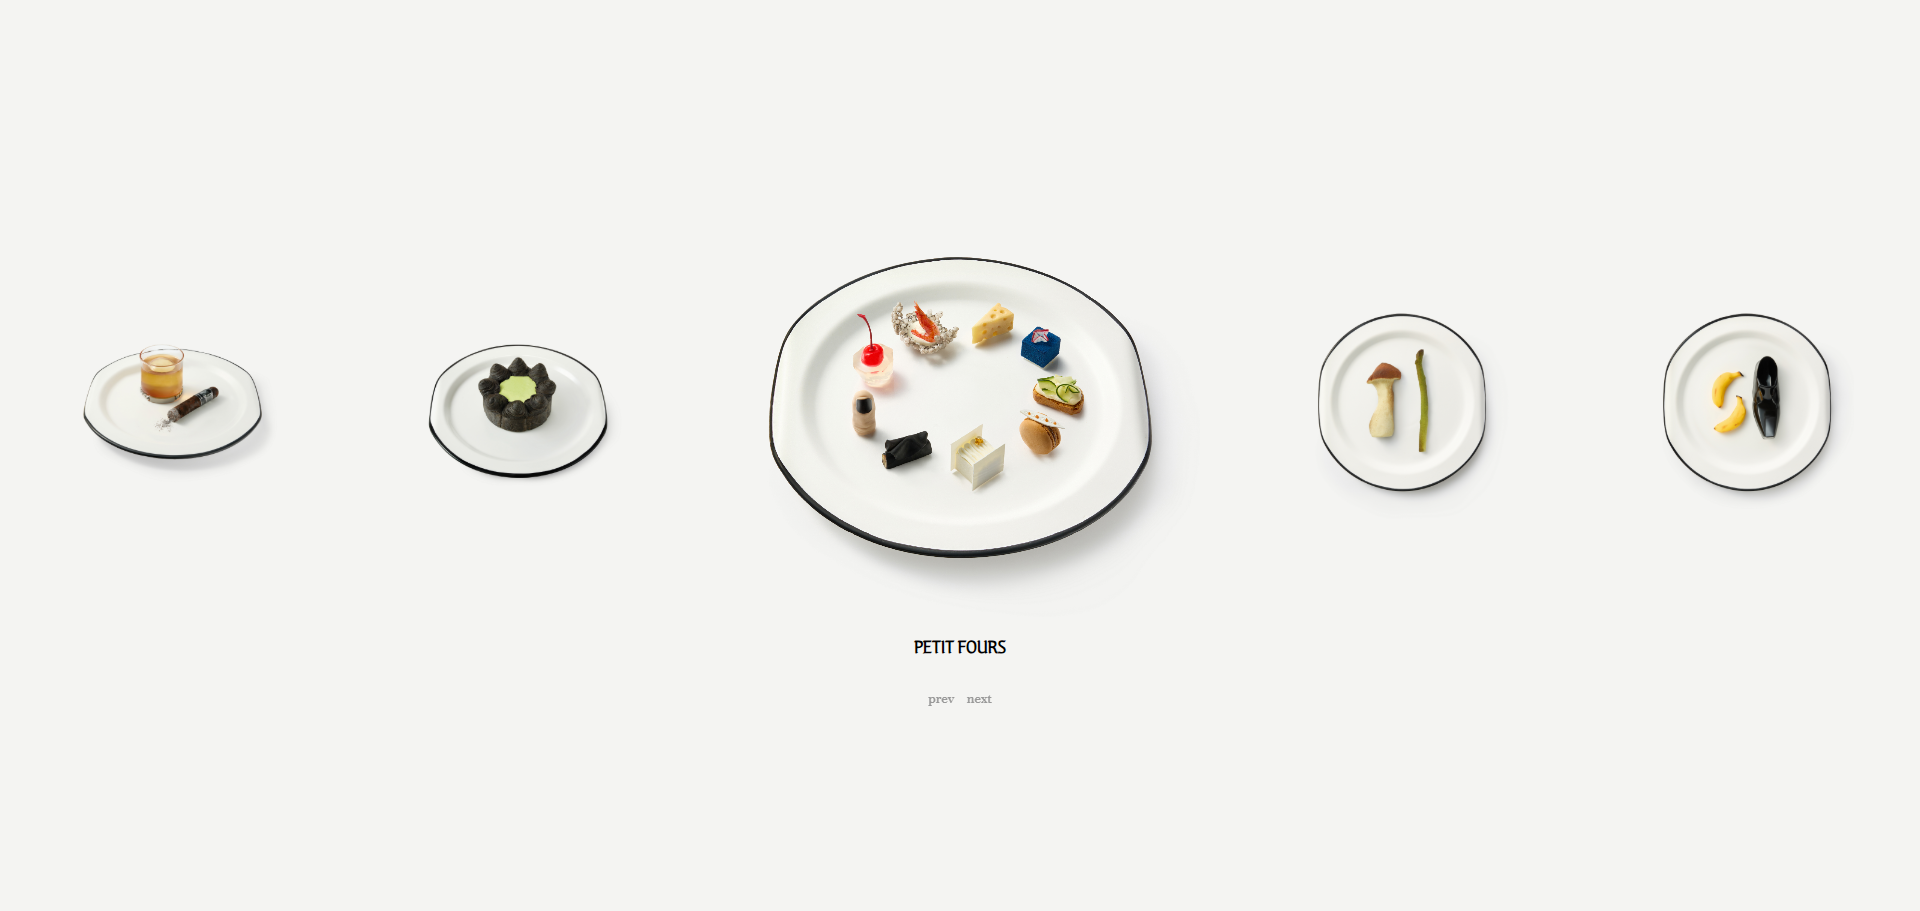
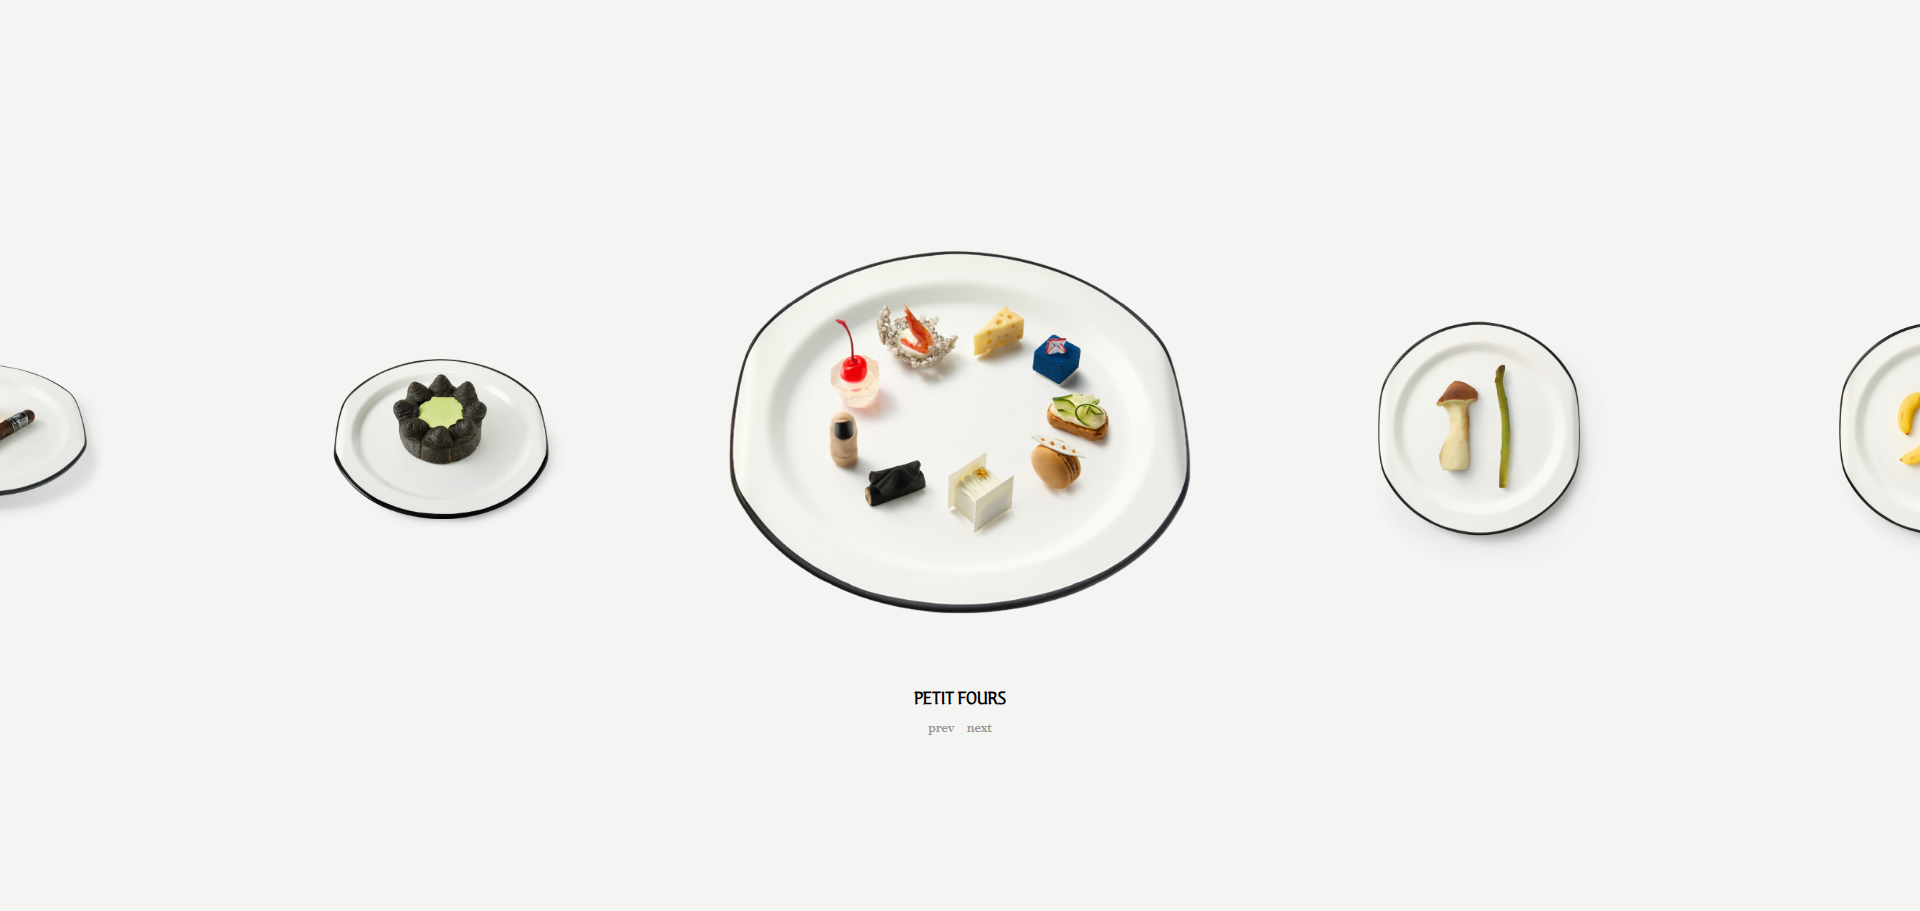
chore: replace preview images with dessert assets

diff --git a/type-3/index.html b/type-3/index.html
@@ -12,12 +12,6 @@
         <h1>Type 3 - Advanced</h1>
         <p>Content sourced from <a href="https://www.nudake.com/" rel="noopener noreferrer" target="_blank">nudake.com</a></p>
     </header>
-<!--    <div class="mask-item">
-        <div class="img"></div>
-        <div class="txt">
-            <span></span>
-        </div>
-    </div>-->
     <div class="container">
         <button id="maskBtn" class="mask-btn">MASK ON</button>
         <div id="maskWrapper" class="mask-wrapper">